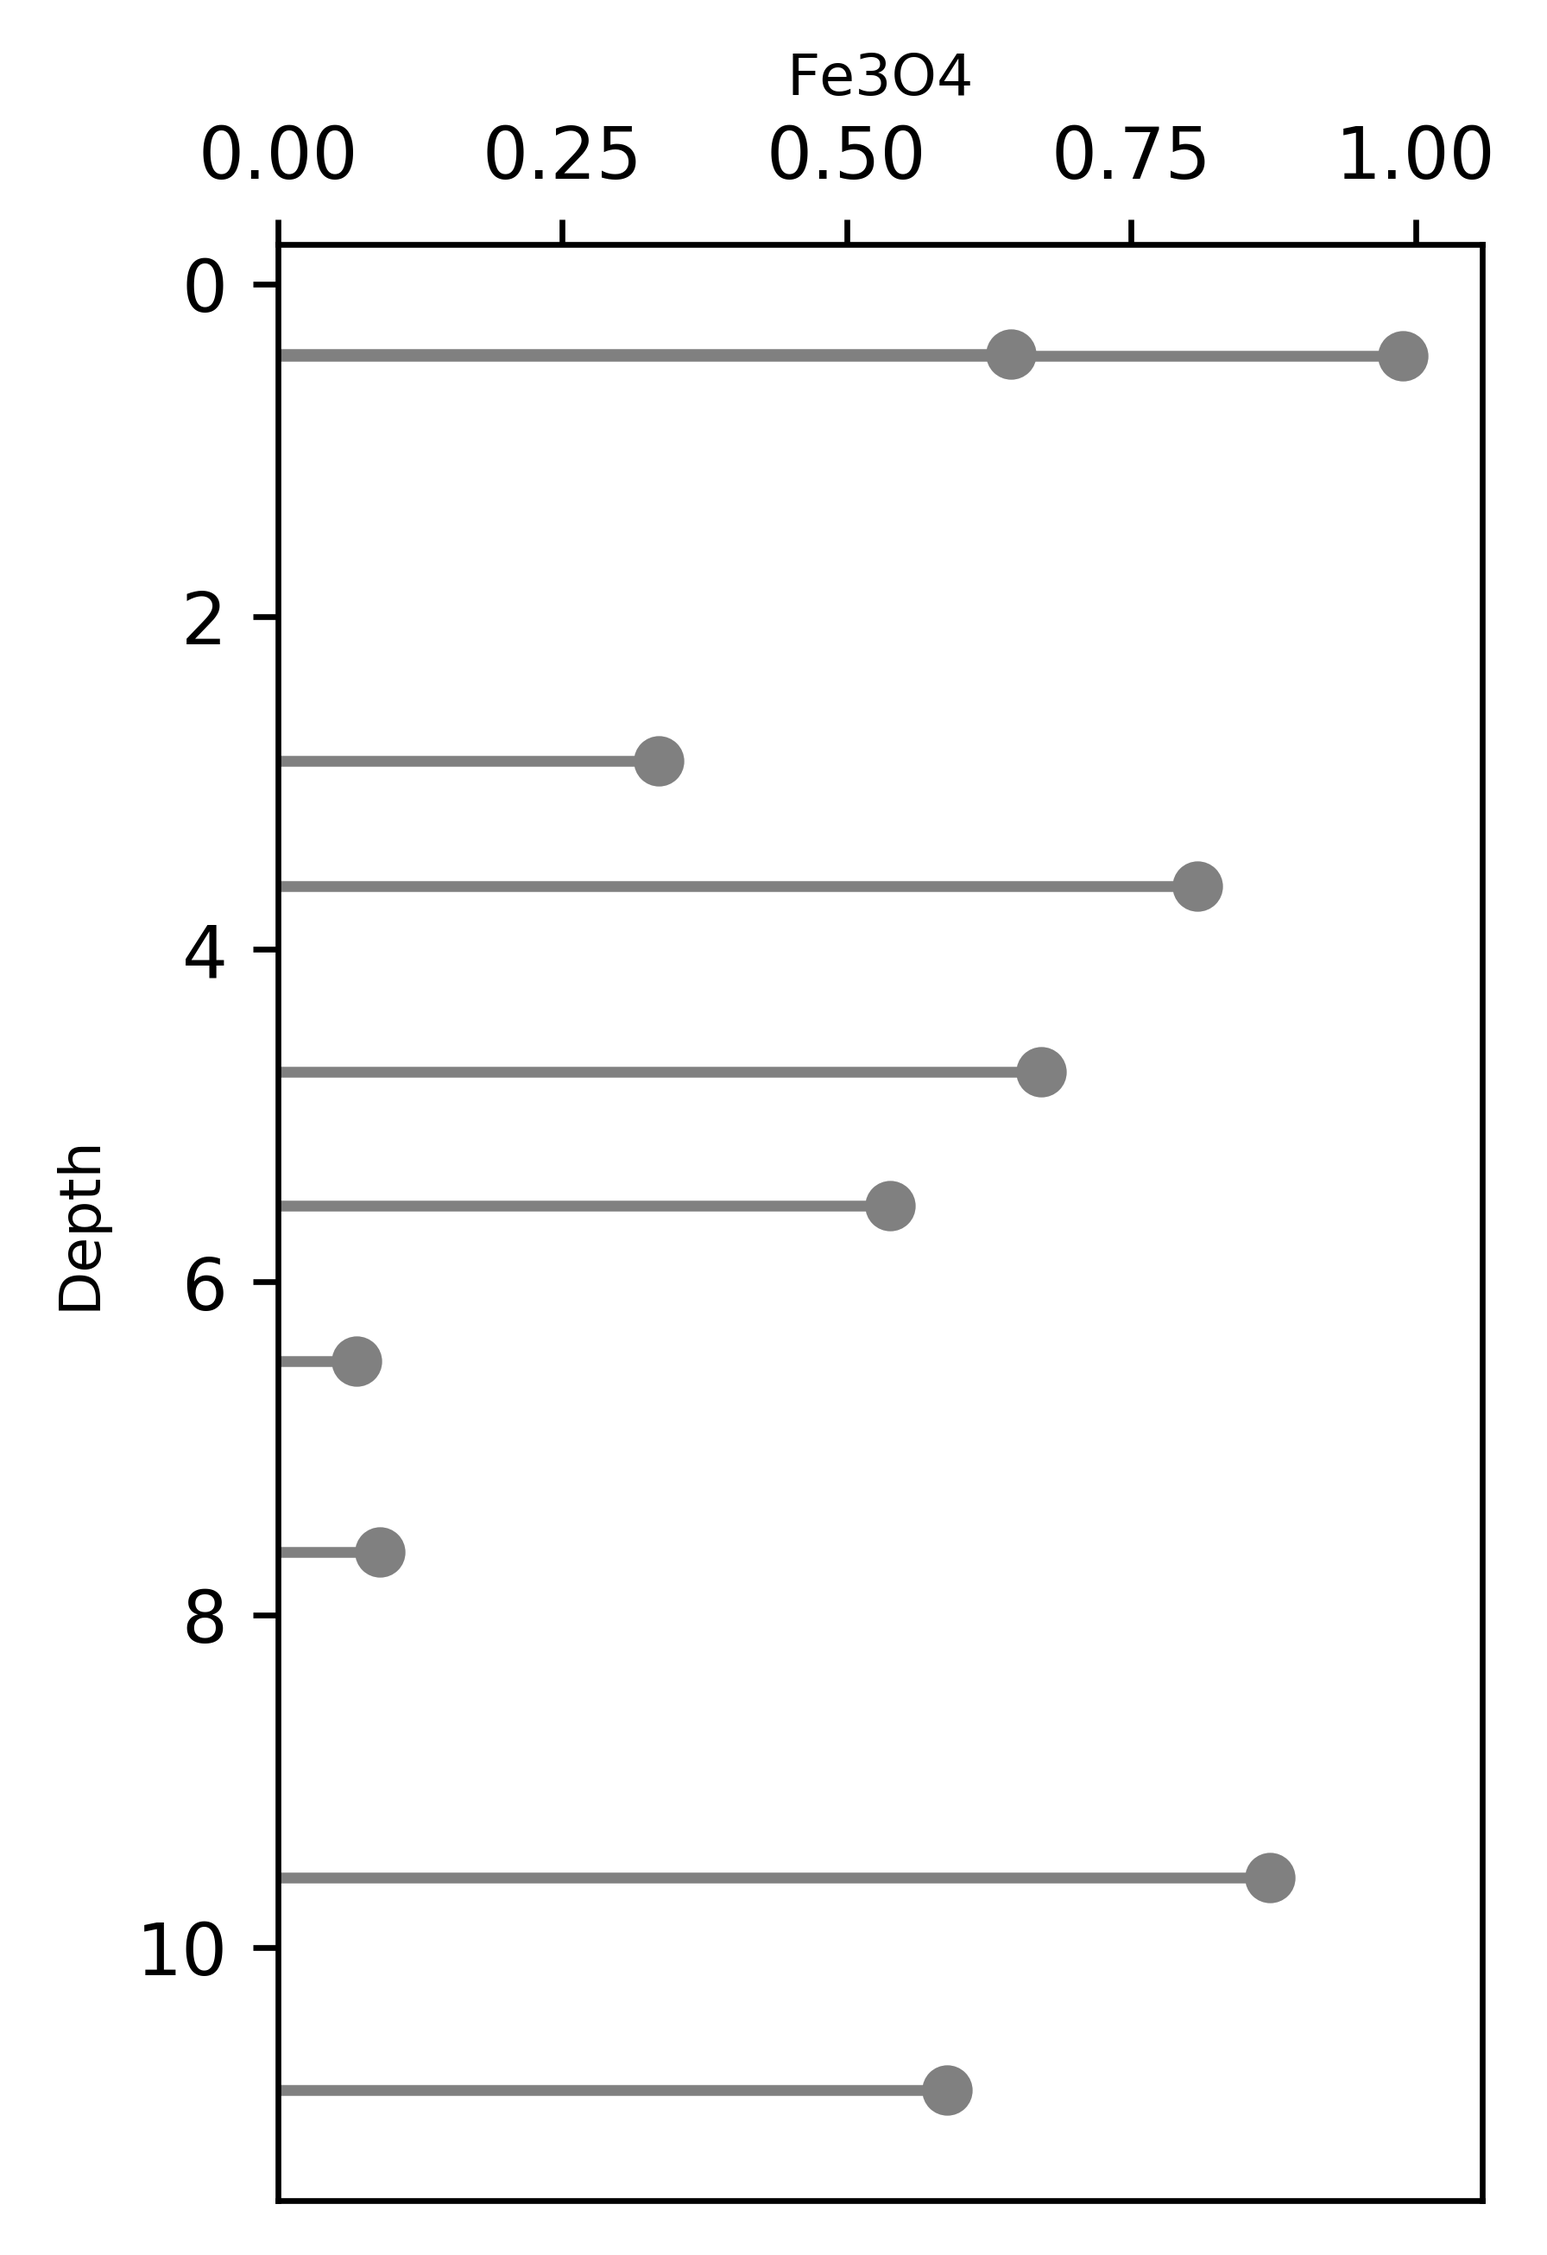
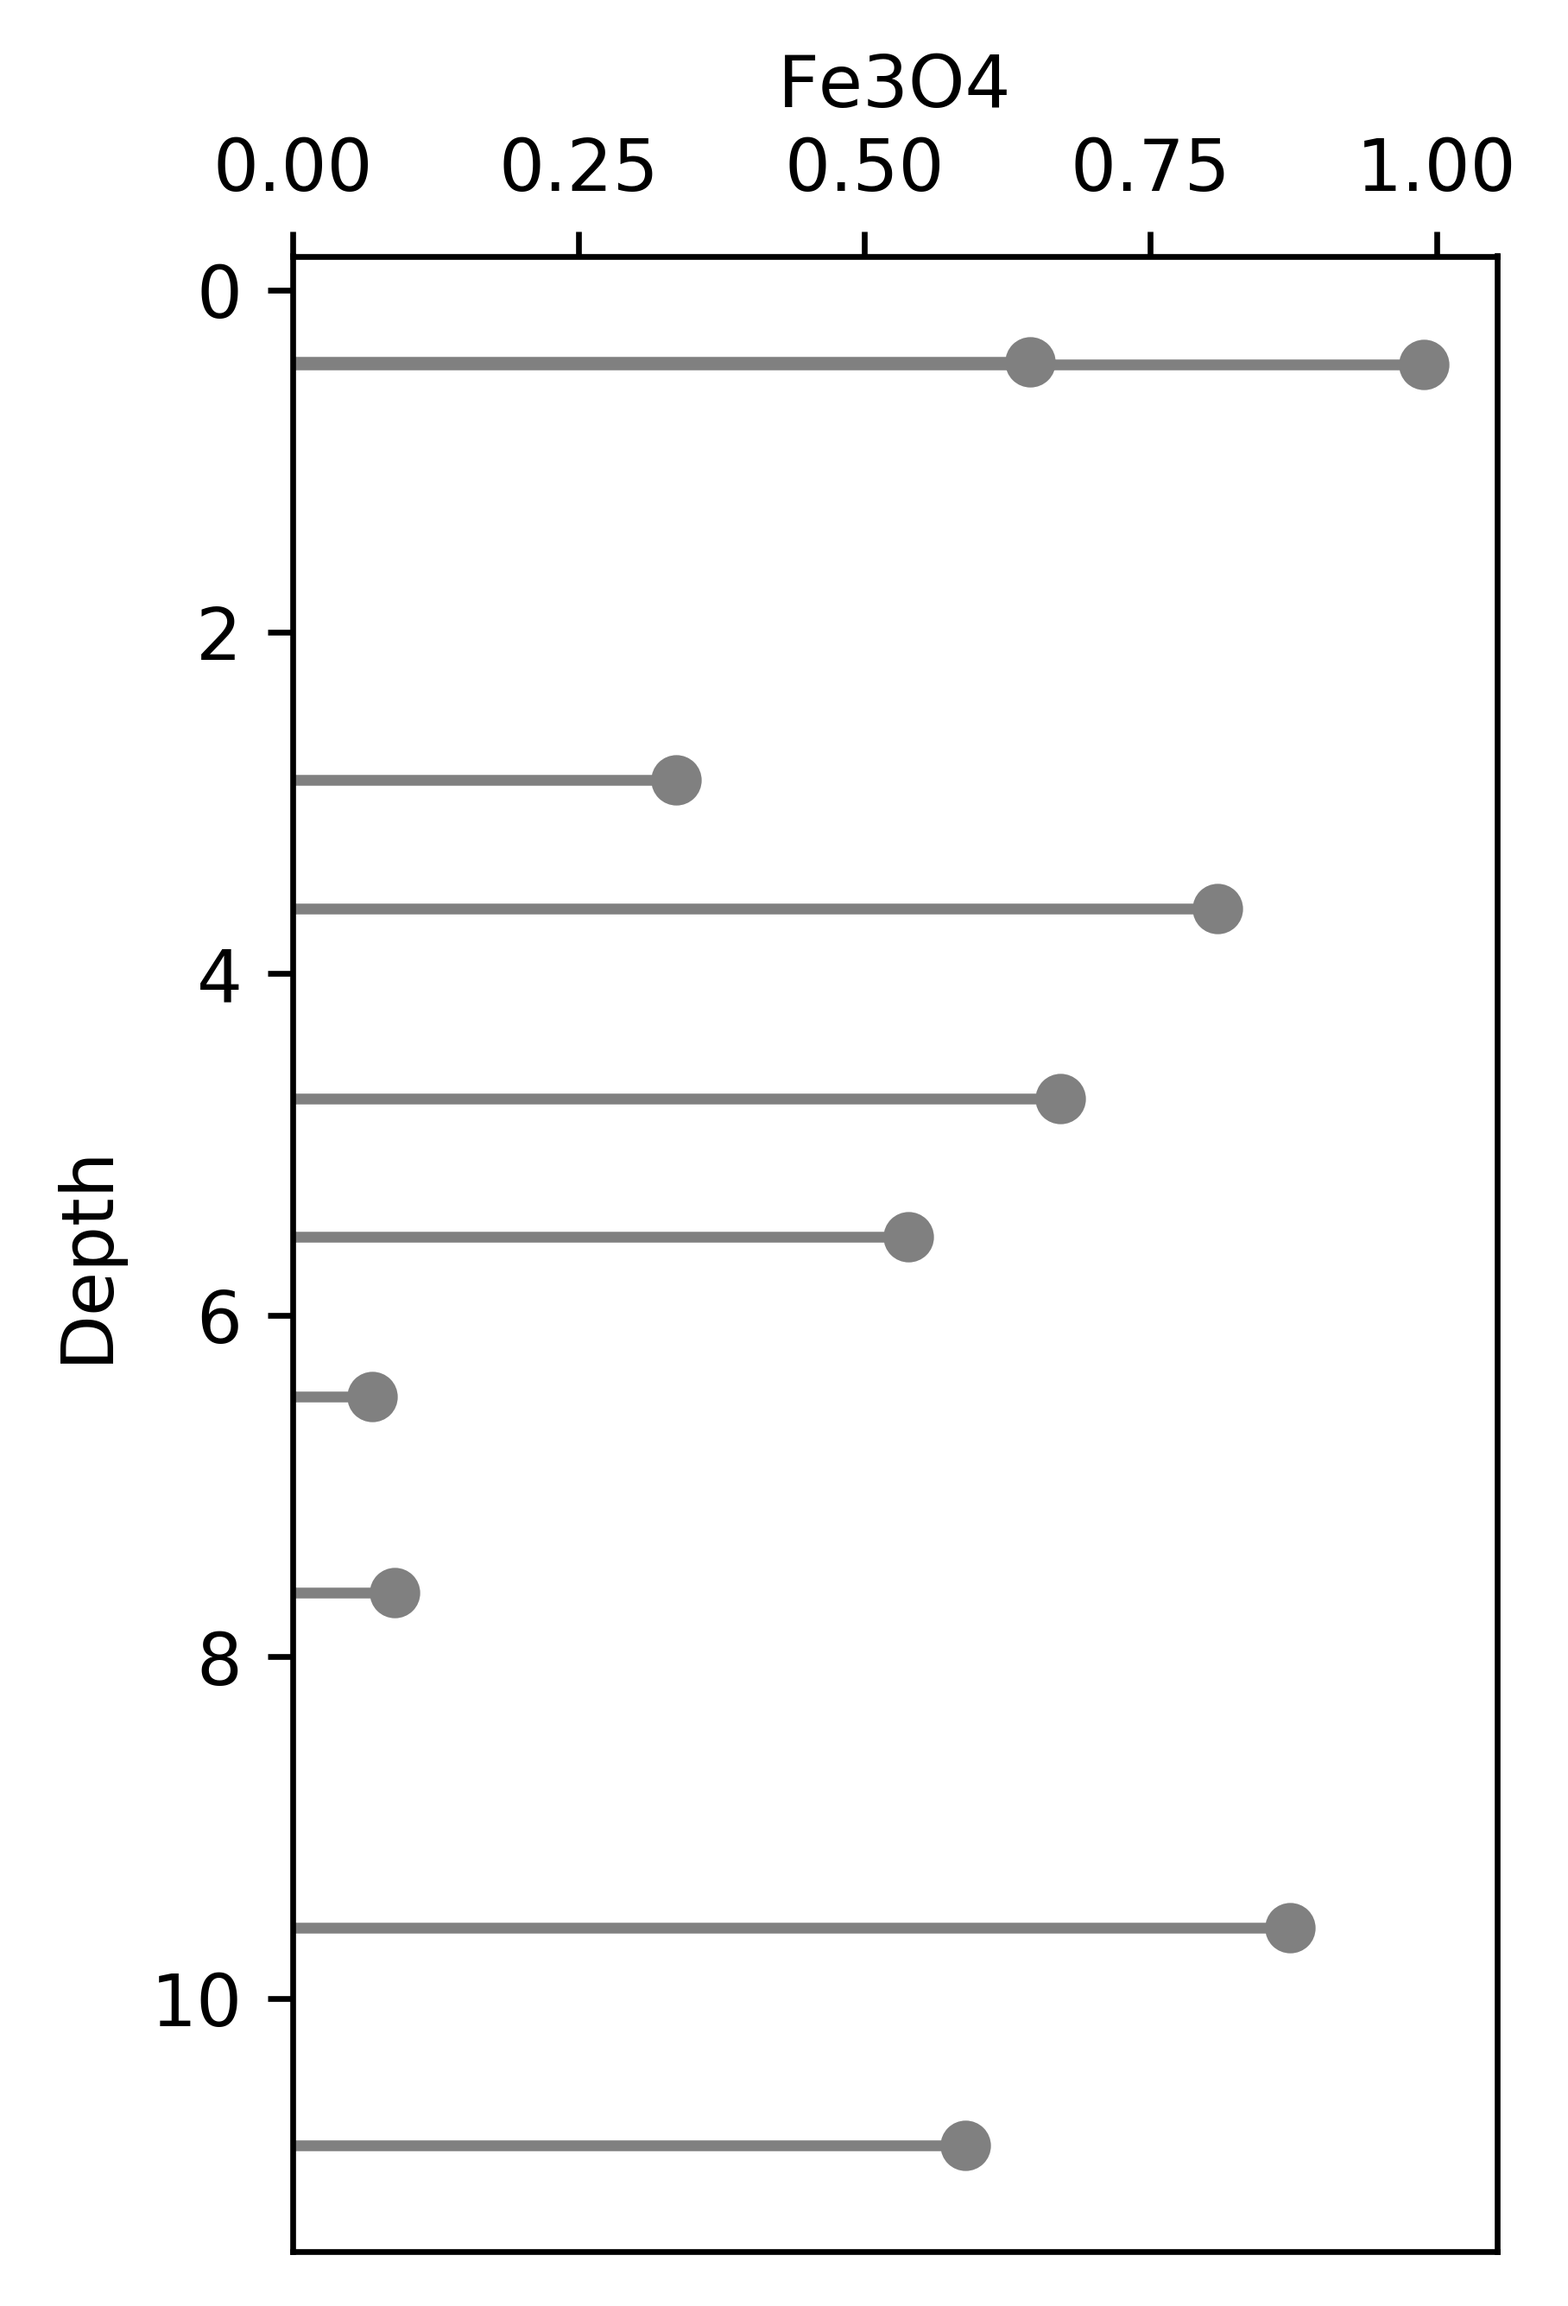
Update Stem example

diff --git a/pyrolite/plot/__init__.py b/pyrolite/plot/__init__.py
@@ -288,12 +288,11 @@ class pyroplot(object):
             **kwargs
         )
 
-        fontsize = kwargs.get("fontsize", 8.0)
         if axlabels:
             if 'h' not in  orientation:
                 components = components[::-1]
-            ax.set_xlabel(components[0], fontsize=fontsize)
-            ax.set_ylabel(components[1], fontsize=fontsize)
+            ax.set_xlabel(components[0])
+            ax.set_ylabel(components[1])
 
         return ax
 

diff --git a/docs/source/usage/eg/plotting/stem.rst b/docs/source/usage/eg/plotting/stem.rst
@@ -3,13 +3,15 @@ Stem Plots
 
 Stem plots are commonly used to visualise discrete distributions of data,
 and are useful to highlight discrete observations where the precision of values along
-one axis is high (e.g. a spatial measure like depth) and the other is less so.
+one axis is high (e.g. an independent spatial measure like depth) and the other is less
+so (such that the sampling frequency along this axis is important, which is not
+emphasised by a scatter plot).
 
 .. literalinclude:: ../../../../examples/plotting/stem.py
    :language: python
    :end-before: # %% Minimal Example
 
-A minimal density plot can be constructed as follows:
+A minimal stem plot can be constructed as follows:
 
 .. literalinclude:: ../../../../examples/plotting/stem.py
    :language: python
